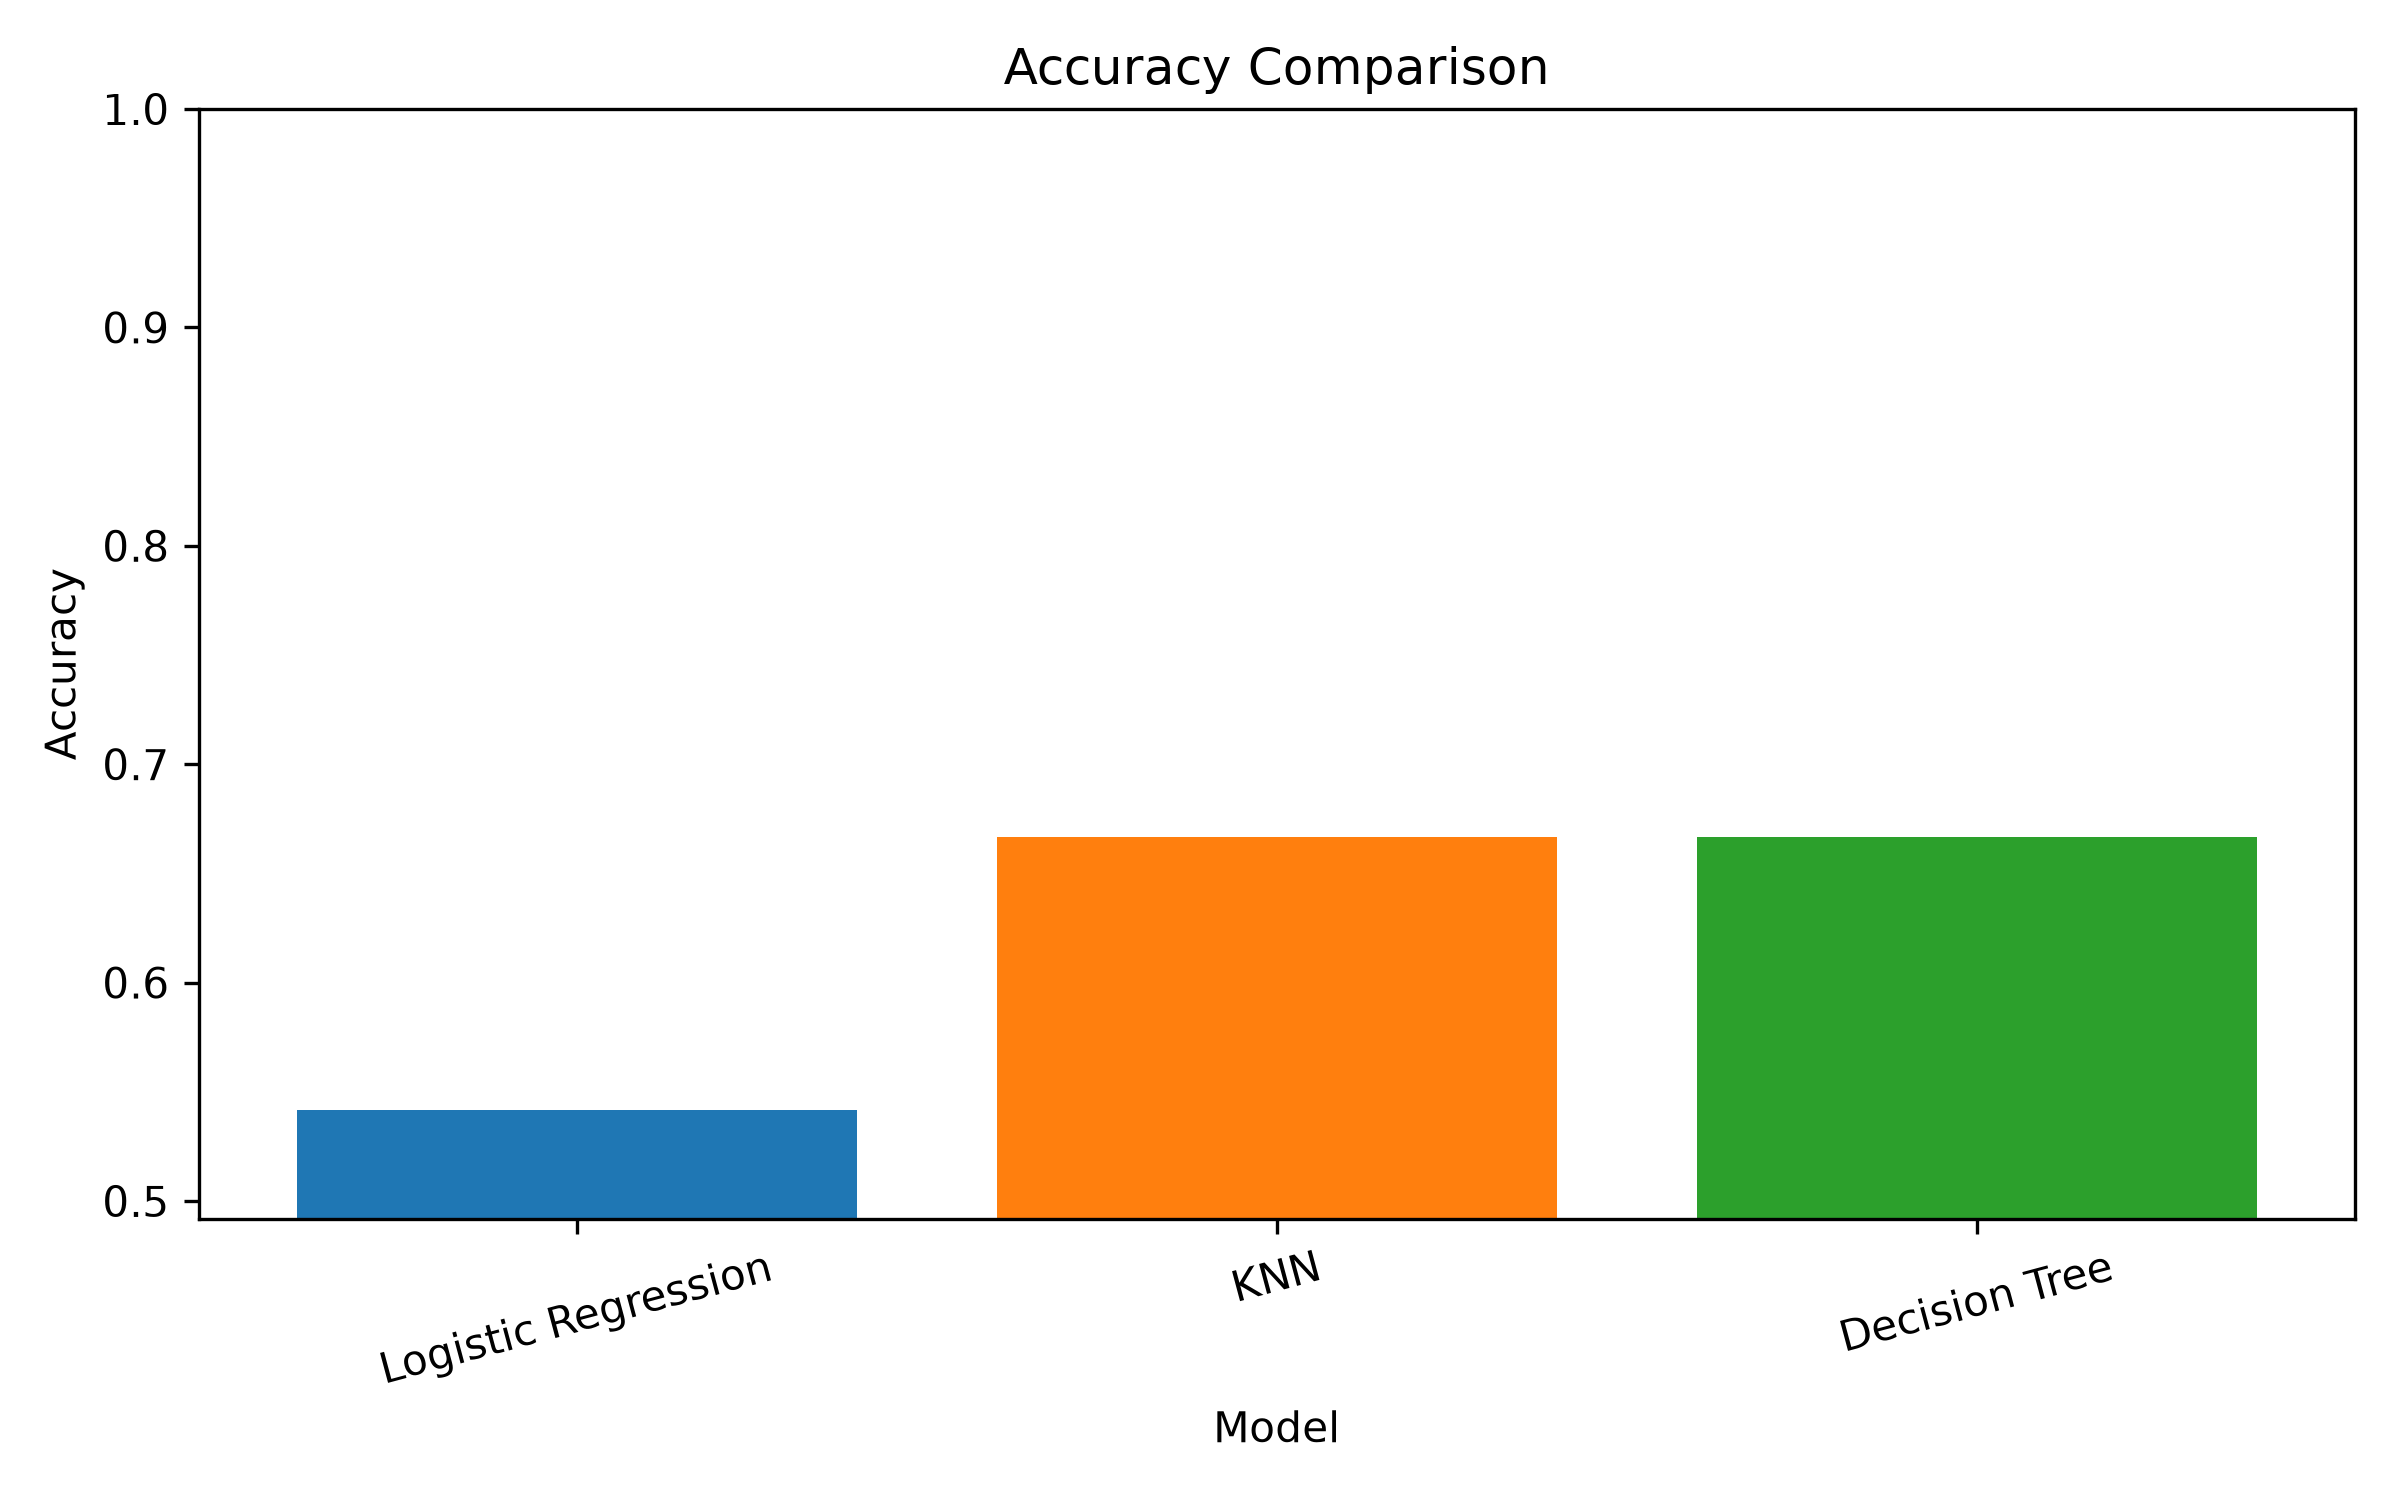
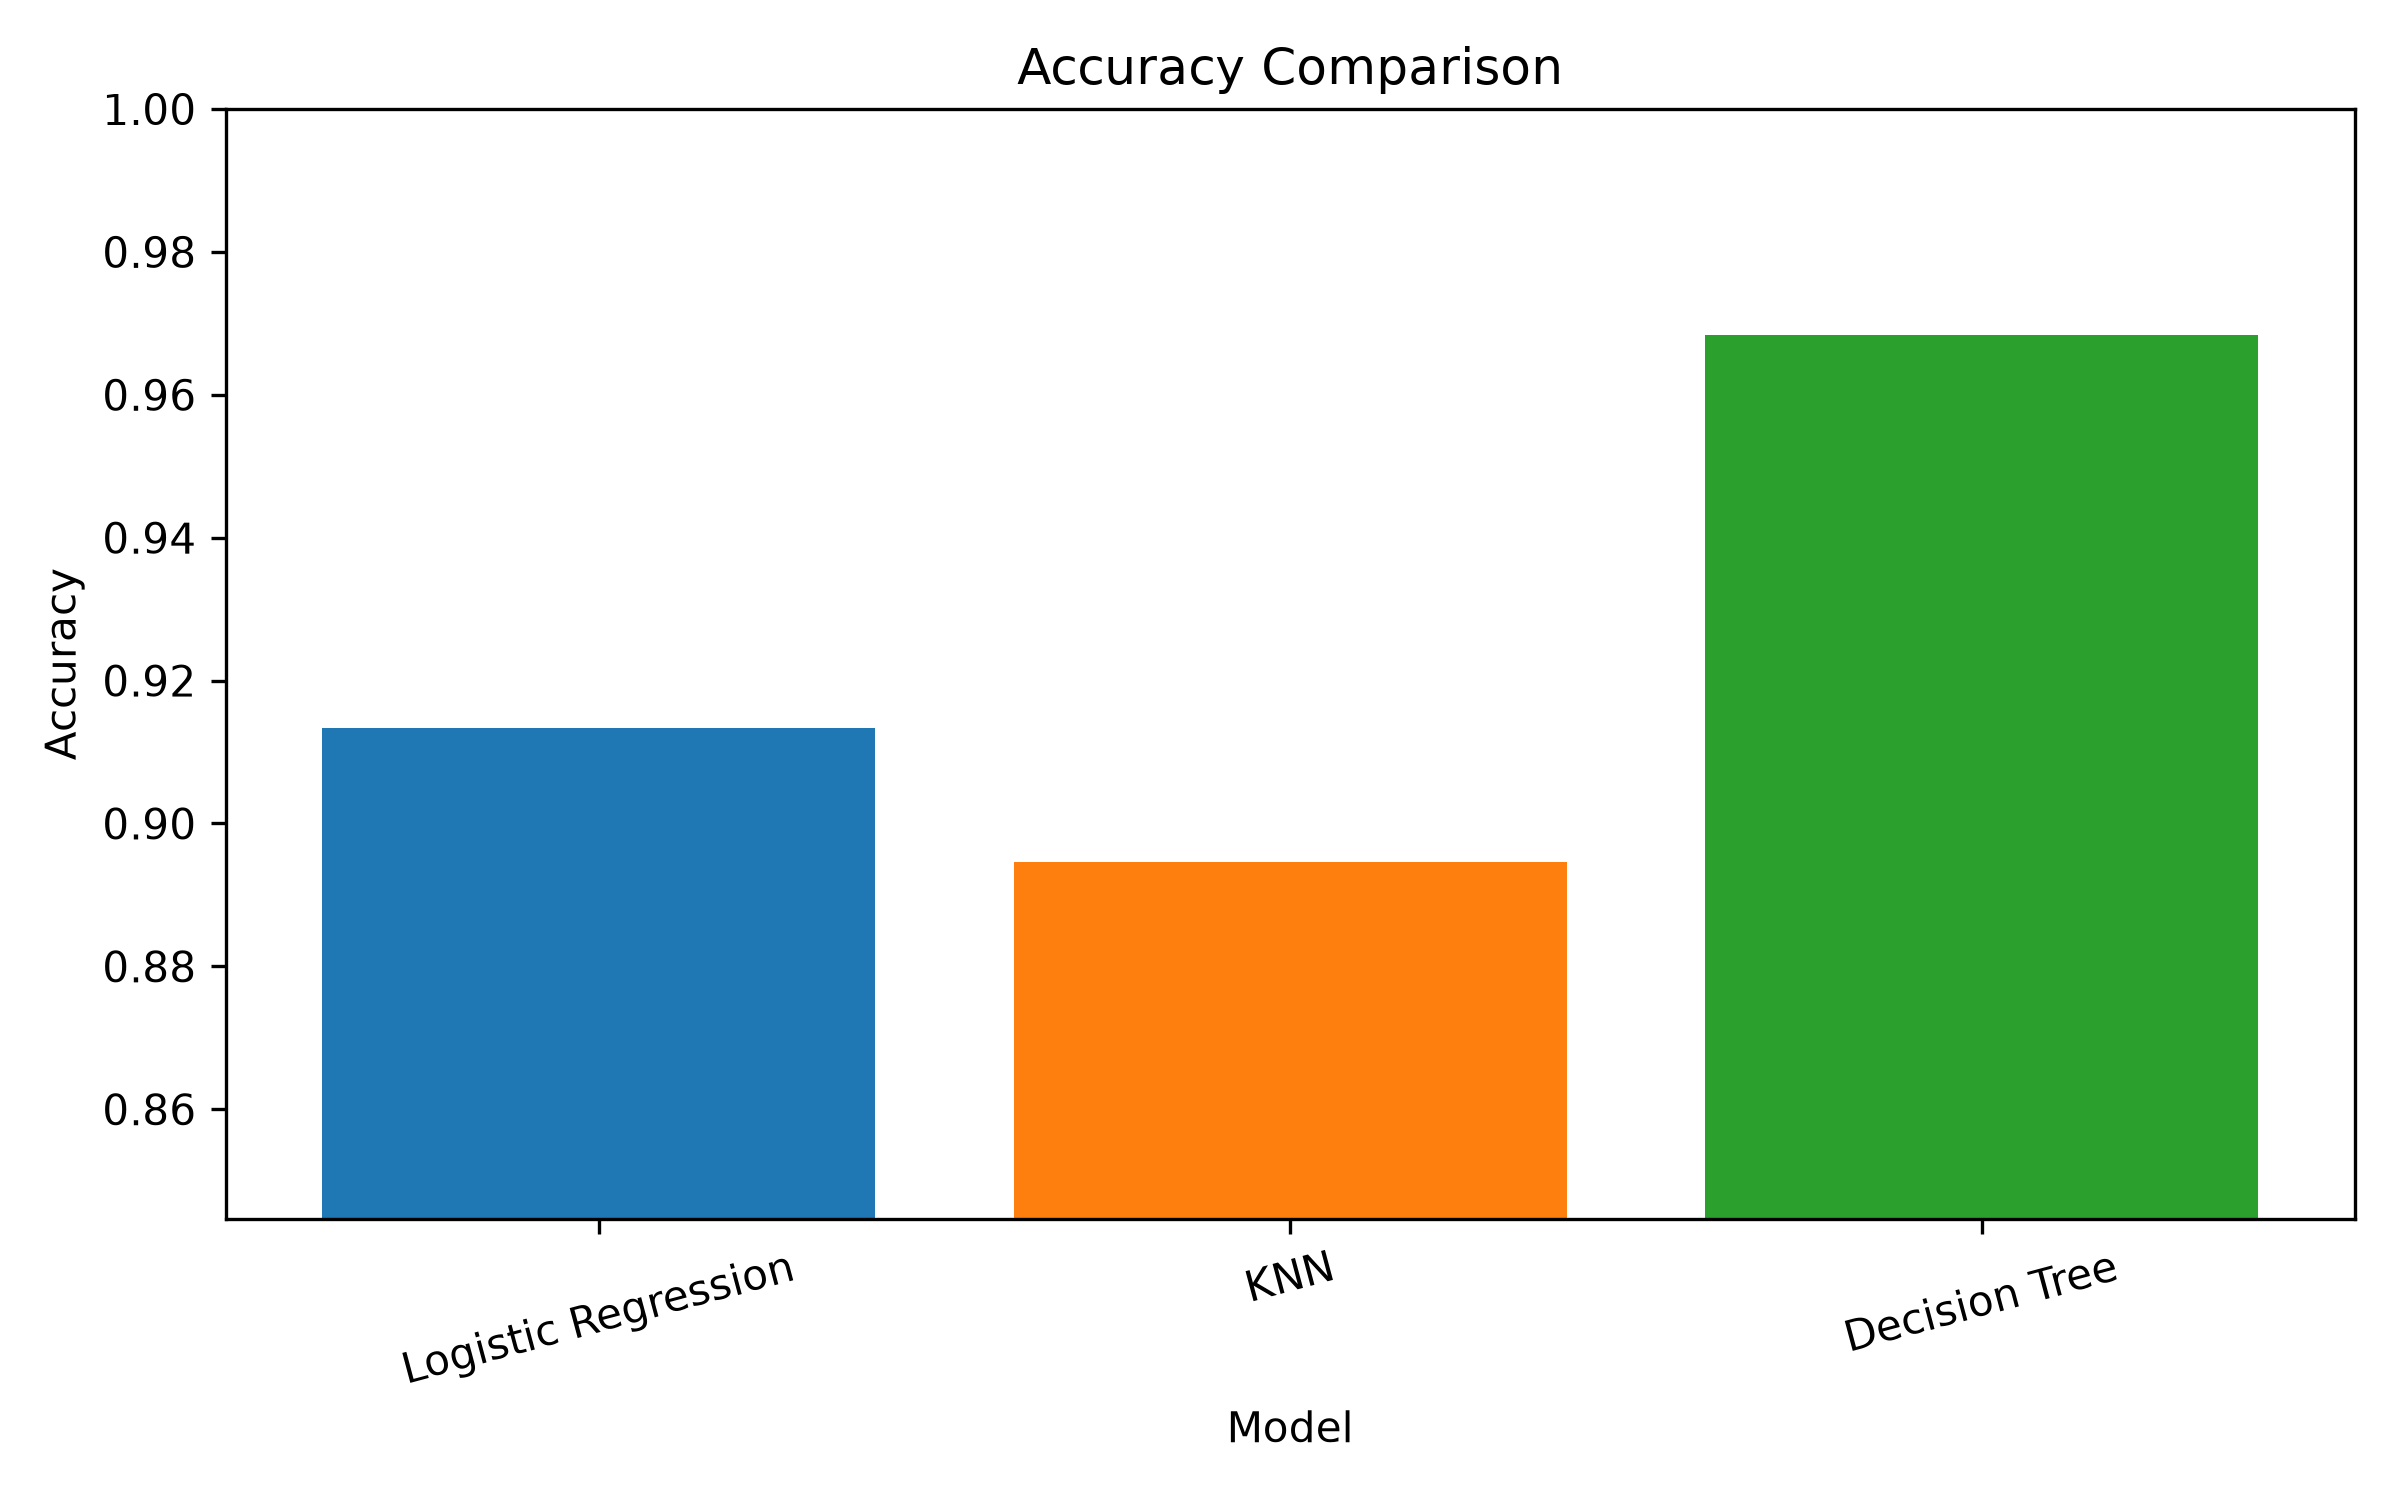
docs(results): update README with measured model metrics and high-res figures

diff --git a/README.md b/README.md
@@ -126,6 +126,35 @@ pytest -v tests/
 
 ---
 
+## 📊 Empirical Evaluation Results
+
+Evaluated on the full 4,269-applicant dataset (stratified 80/20 train/test split with 854 test instances):
+
+| Model | Accuracy | Precision | Recall | F1 Score | Complexity | Interpretability | Training Time |
+| :--- | :---: | :---: | :---: | :---: | :---: | :---: | :---: |
+| **Decision Tree (depth=5)** | **96.84%** | **98.28%** | **96.61%** | **0.9744** | Medium | High | ~0.0065s |
+| **Logistic Regression** | 91.33% | 92.08% | 94.16% | 0.9311 | Low | High | ~0.0124s |
+| **KNN (k=5)** | 89.46% | 90.61% | 92.66% | 0.9162 | Low | Low | ~0.0065s |
+
+### Confusion Matrix Breakdown (854 Test Samples)
+- **Decision Tree**:
+  - True Rejected ($TN$): 314 | False Approved ($FP$): 9
+  - False Rejected ($FN$): 18 | True Approved ($TP$): 513
+  - *Risk Analysis*: Minimizes credit default risk with only 9 false approvals ($1.05\%$).
+- **Logistic Regression**:
+  - True Rejected ($TN$): 280 | False Approved ($FP$): 43
+  - False Rejected ($FN$): 31 | True Approved ($TP$): 500
+- **KNN**:
+  - True Rejected ($TN$): 272 | False Approved ($FP$): 51
+  - False Rejected ($FN$): 39 | True Approved ($TP$): 492
+
+### Key Feature Determinants (Logistic Regression Coefficients)
+- **`cibil_score` (+4.091)**: The single strongest positive driver of loan approval.
+- **`loan_amount` (+1.321)**: Positively correlates with approved applicants in this portfolio.
+- **`income_annum` (-1.595)** & **`loan_term` (-0.859)**: Longer terms negatively affect approval probability.
+
+---
+
 ## ⚖ Ethical & Practical Considerations
 
 In automated loan underwriting:
